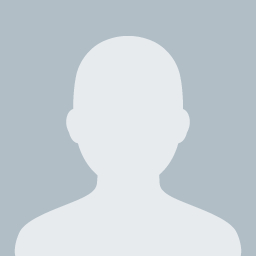
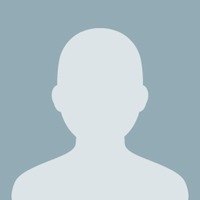
image manipulation

diff --git a/main/application/views/profile_page.php b/main/application/views/profile_page.php
@@ -69,25 +69,28 @@
 
         <div class="row">
 
-            <div class="col-md-5">
+            <div class="col-md-3">
 				
 					
 	                	
-		                <div class="list-group">
-							<div id="profile_img"><img src="<?php echo base_url() ?>/assets/img/missing.jpg" class="list-group-item thumbnail" style="text-align: center"></div>
-						<p class="lead" id="user_name">User Name (getting from database)</p>
+		                
+							<div id="profile_img"><img src="<?php echo base_url() ?>/assets/img/missing.jpg"</div>
+							<div class="caption">
+						<p class="lead" id="user_name">User Name</p>
 				
 						
-	                    <div class="list-group-item" id="about_me">About Me</div>
+	                    <p id="about_me">About Me </p>
 						
-	                	</div>
+	                	
 						
 				
 				<!-- <a class="btn btn-primary" target="_blank" href="#edit_profile"> Edit Profile </a> -->
-                <a class="btn btn-primary" href="../upload/profile_upload"> Edit Profile </a>
+                <a class="btn btn-default" href="../upload/profile_upload"> Edit Profile </a>
 				<!-- <a class="btn btn-primary" href="../profile_page/edit_profile"> Edit Profile </a> -->
 				<!-- <a class="btn btn-primary" target="_blank" href="">Add New Video</a> -->
-				<a class="btn btn-primary" href="../upload/video_upload">Add New Video</a>
+				<a class="btn btn-default" href="../upload/video_upload">Upload Video</a>
+            </div>
+          
             </div>
 
             <div class="col-md-7">

diff --git a/main/application/controllers/upload.php b/main/application/controllers/upload.php
@@ -43,6 +43,7 @@ class Upload extends CI_Controller {
 
 		$this->load->library('upload', $config);
 
+
 		if (!empty($_FILES['userfile']['name'])){
 			if ( ! $this->upload->do_upload())
 			{
@@ -50,10 +51,21 @@ class Upload extends CI_Controller {
 				$this->load->view('profile_upload_form', $data);
 				goto abort;
 			}
+			else{
+				$config['image_library'] = 'gd2';
+				$config['source_image'] = "./assets/img/profile/{$user_id}" . ".jpg";
+				$config['quality'] = 100;
+				$config['maintain_ratio'] = TRUE;
+				$config['width'] =200;
+				$config['height'] = 200;
+				
+				$this->load->library('image_lib', $config);
+				
+				$this->image_lib->resize();
+			}
 		}
 		$error = array('error' => $this->upload->display_errors());
 		$data_array = $this->upload->data();
-
 
 		$this->load->library('form_validation');
 		
